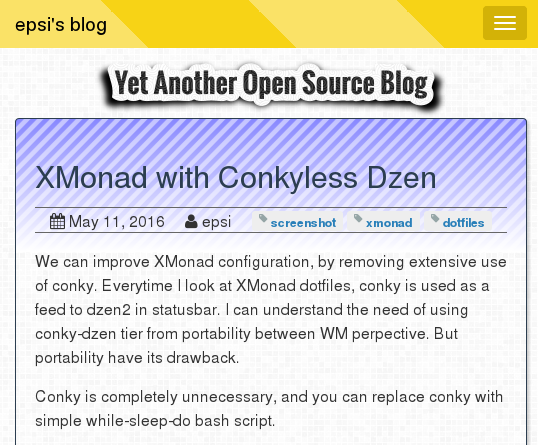
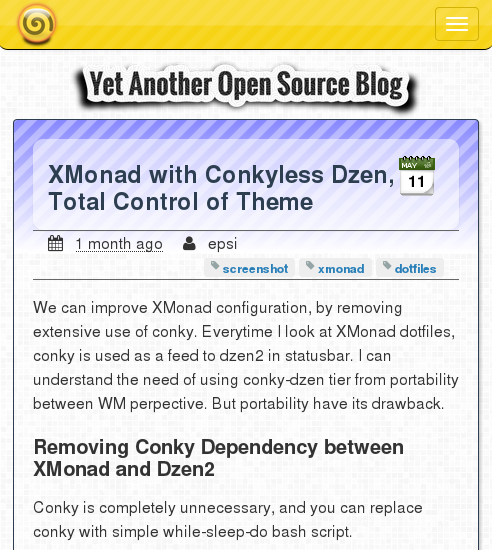
css: glossy stripe navigation bar

diff --git a/_sass/themes/oriblog/_navbar.scss b/_sass/themes/oriblog/_navbar.scss
@@ -14,7 +14,8 @@
   border-bottom-right-radius: 10px;
   @include box-shadow(0 1px 1px rgba(0,0,0,.05));
 
-  @include gradient-striped(rgba(255,255,255,.35), 45deg);
+  background: $yellow-makara url("../images/glossy/00.png") left top repeat-x;
+//  @include gradient-striped(rgba(255,255,255,.35), 45deg);
 
   ul.navbar-nav li:hover,
   div.navbar-header:hover {
